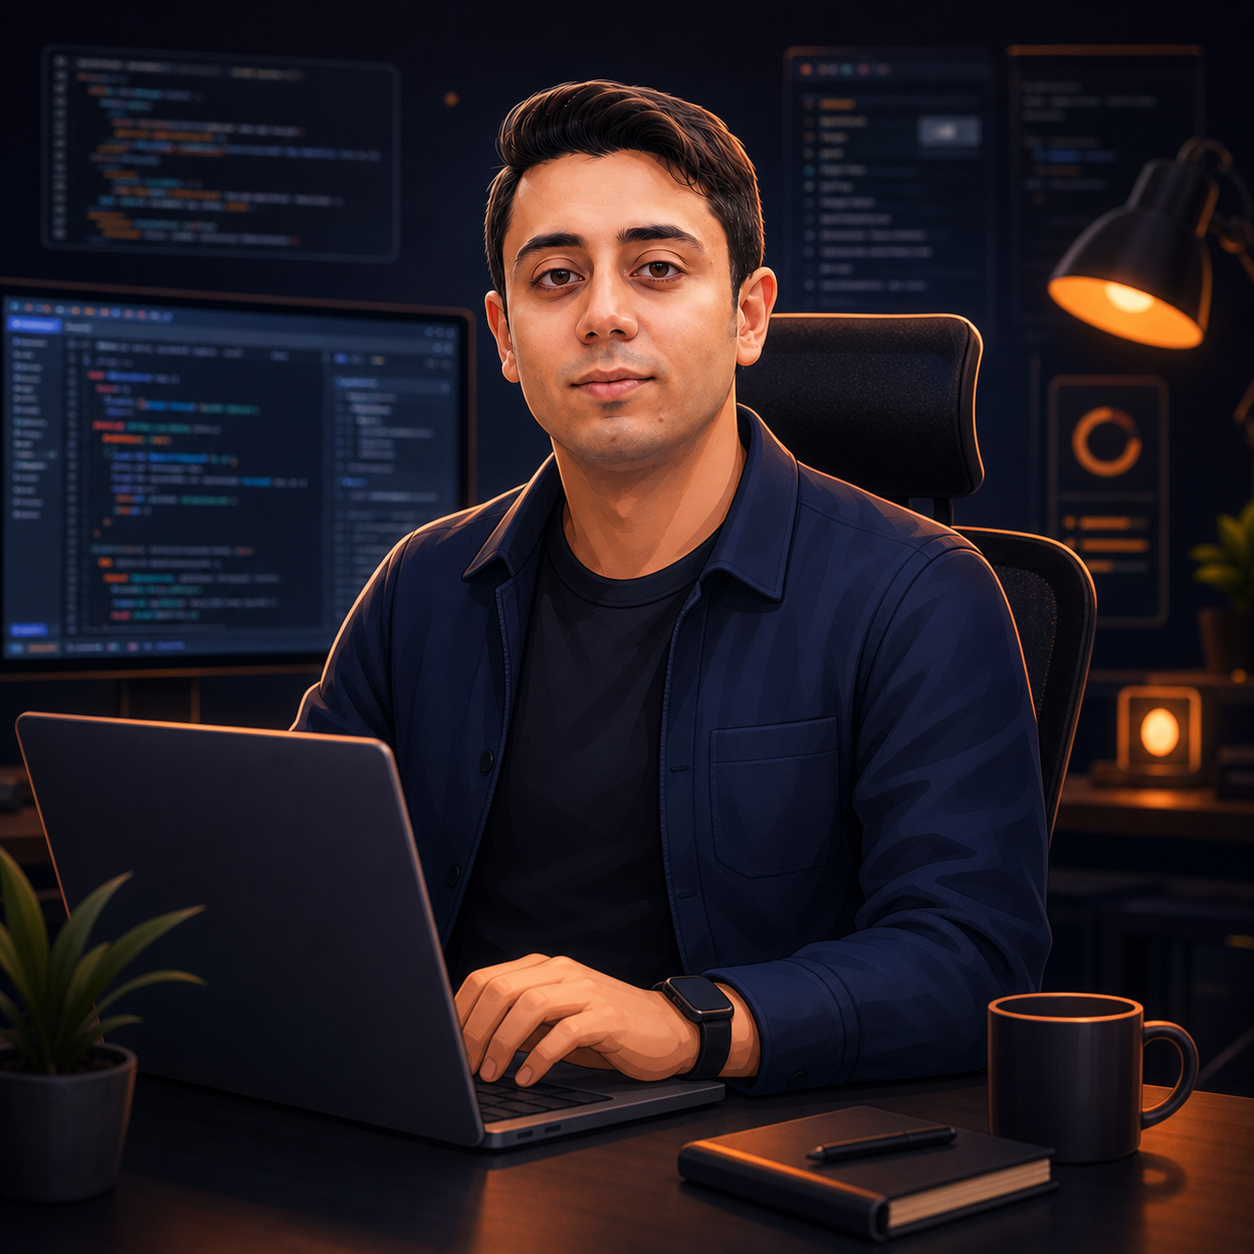
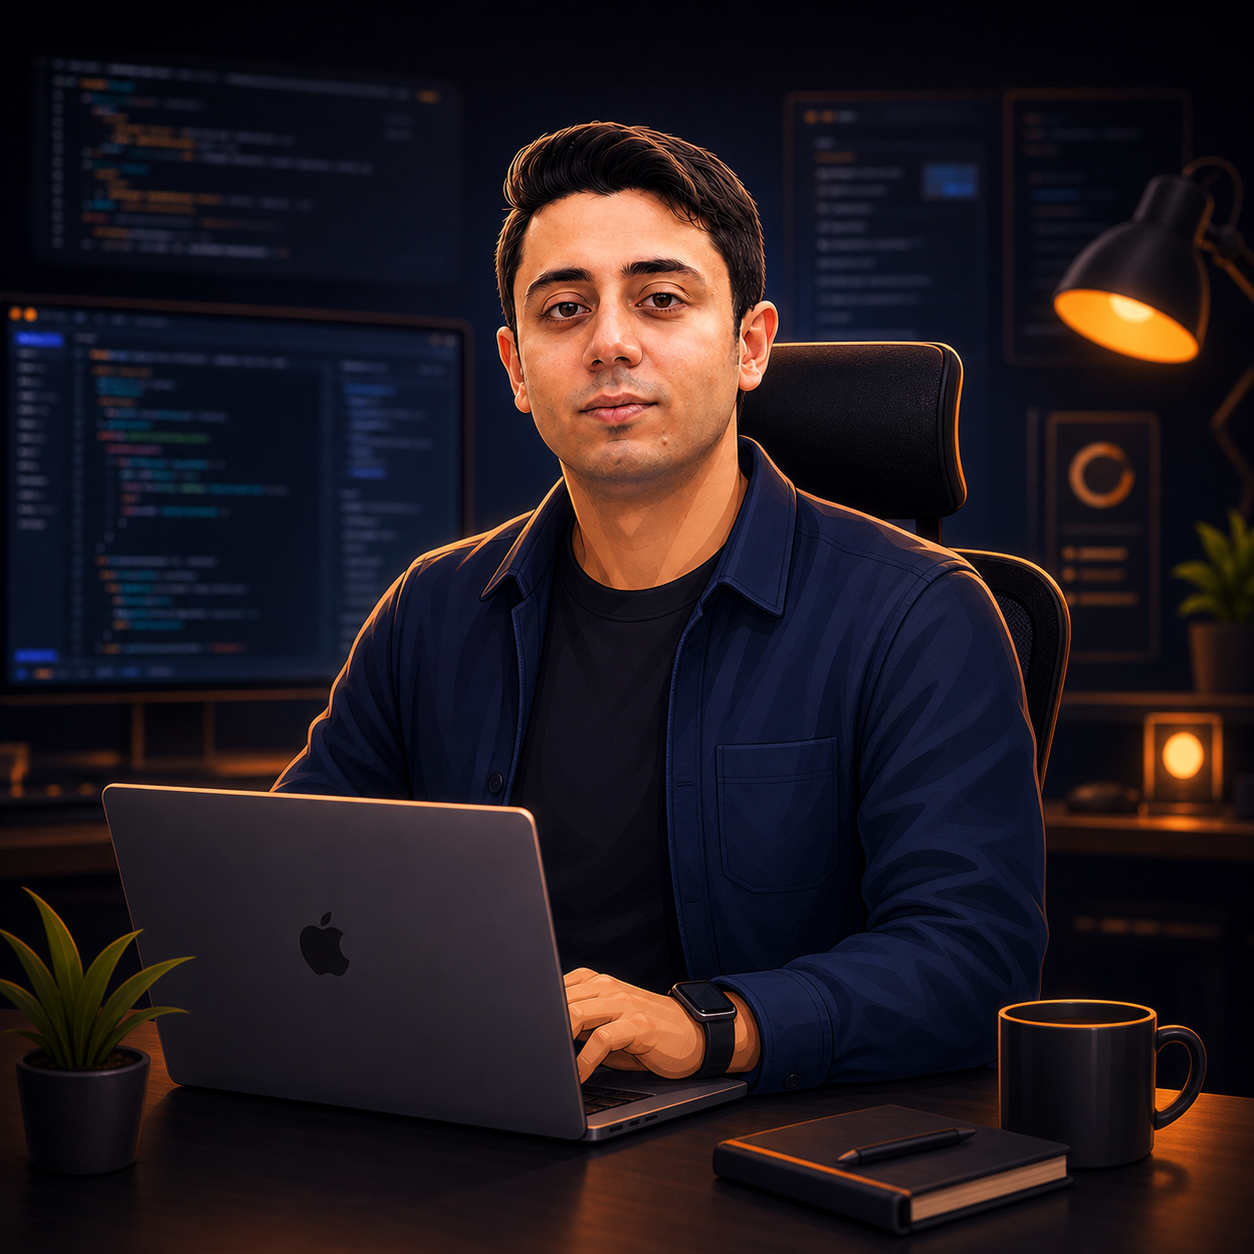
feat: update CodeBootLoader styles and loading timing for improved user experience

diff --git a/src/app/_components/pages/landing/CodeBootLoader.tsx b/src/app/_components/pages/landing/CodeBootLoader.tsx
@@ -21,7 +21,7 @@ const CodeBootLoader = () => {
 
     const finishLoading = () => {
       const elapsed = performance.now() - startedAt;
-      const remaining = Math.max(3000 - elapsed, 260);
+      const remaining = Math.max(1750 - elapsed, 260);
 
       exitTimer = setTimeout(() => {
         setIsVisible(false);
@@ -57,7 +57,7 @@ const CodeBootLoader = () => {
 
   return (
     <div
-      className={`fixed inset-0 z-[99999999] flex items-center justify-center overflow-hidden bg-[#0f0e0d] px-16 transition-all duration-700 ${
+      className={`fixed inset-0 z-[99999999] flex items-center justify-center overflow-hidden bg-[#0f0e0d] px-12 py-16 transition-all duration-700 sm:!px-16 ${
         isVisible ? "opacity-100" : "pointer-events-none opacity-0"
       }`}
       aria-label="Loading portfolio"
@@ -66,8 +66,8 @@ const CodeBootLoader = () => {
       <div className="absolute inset-0 bg-[radial-gradient(circle_at_20%_20%,rgba(239,142,53,0.22)_0%,transparent_32%),radial-gradient(circle_at_78%_24%,rgba(255,255,255,0.08)_0%,transparent_28%),linear-gradient(135deg,rgba(255,255,255,0.035)_25%,transparent_25%,transparent_50%,rgba(255,255,255,0.035)_50%,rgba(255,255,255,0.035)_75%,transparent_75%,transparent)] bg-[length:auto,auto,34px_34px]" />
       <div className="absolute inset-x-0 top-0 h-[1px] bg-primary/70 shadow-[0_0_28px_rgba(239,142,53,0.9)]" />
 
-      <div className="relative grid w-full max-w-[1040px] items-center gap-[24px] rounded-[18px] border border-white/10 bg-[rgba(22,21,20,0.78)] p-16 shadow-[0_30px_120px_rgba(0,0,0,0.45)] backdrop-blur-[22px] sm:!p-24 md:!grid-cols-[minmax(280px,0.85fr)_minmax(0,1.15fr)] md:!gap-[32px]">
-        <div className="relative mx-auto flex w-full max-w-[360px] items-end justify-center overflow-hidden rounded-[16px] border border-primary/20 bg-[linear-gradient(180deg,rgba(239,142,53,0.18)_0%,rgba(255,255,255,0.05)_44%,rgba(0,0,0,0.08)_100%)]">
+      <div className="relative grid max-h-[calc(100svh-32px)] w-full max-w-[1040px] items-center gap-[12px] rounded-[18px] border border-white/10 bg-[rgba(22,21,20,0.78)] p-12 shadow-[0_30px_120px_rgba(0,0,0,0.45)] backdrop-blur-[22px] sm:!gap-[20px] sm:!p-20 md:!grid-cols-[minmax(280px,0.85fr)_minmax(0,1.15fr)] md:!gap-[32px] md:!p-24">
+        <div className="relative mx-auto flex h-[min(39svh,320px)] w-full max-w-[360px] items-end justify-center overflow-hidden rounded-[16px] border border-primary/20 bg-[linear-gradient(180deg,rgba(239,142,53,0.18)_0%,rgba(255,255,255,0.05)_44%,rgba(0,0,0,0.08)_100%)] sm:!h-auto">
           <div className="absolute inset-x-[12%] bottom-0 h-[42%] rounded-t-[50%] bg-primary/15 blur-[28px]" />
           <Image
             src="/images/coding-loader-avatar.png"
@@ -75,9 +75,9 @@ const CodeBootLoader = () => {
             width={520}
             height={520}
             priority
-            className="relative z-10 aspect-square w-full object-cover object-center"
+            className="relative z-10 h-full w-full object-contain object-center sm:!aspect-square sm:!h-auto"
           />
-          <div className="absolute bottom-14 left-14 right-14 z-20 h-[46px] rounded-[10px] border border-white/10 bg-black/45 px-12 py-8 shadow-[0_18px_45px_rgba(0,0,0,0.35)] backdrop-blur-md">
+          <div className="absolute bottom-10 left-10 right-10 z-20 h-[42px] rounded-[10px] border border-white/10 bg-black/45 px-12 py-8 shadow-[0_18px_45px_rgba(0,0,0,0.35)] backdrop-blur-md sm:!bottom-14 sm:!left-14 sm:!right-14 sm:!h-[46px]">
             <div className="mb-6 flex items-center justify-between text-[10px] leading-none text-white/60">
               <span>dev.session</span>
               <span className="text-primary">active</span>
@@ -89,7 +89,7 @@ const CodeBootLoader = () => {
         </div>
 
         <div className="overflow-hidden rounded-[14px] border border-white/10 bg-[#11100f]/95 shadow-[0_20px_70px_rgba(0,0,0,0.4)]">
-          <div className="flex h-[42px] items-center justify-between border-b border-white/10 bg-white/[0.035] px-14">
+          <div className="flex h-[38px] items-center justify-between border-b border-white/10 bg-white/[0.035] px-14 sm:!h-[42px]">
             <div className="flex gap-[6px]">
               <span className="h-[10px] w-[10px] rounded-full bg-[#ff5f56]" />
               <span className="h-[10px] w-[10px] rounded-full bg-[#ffbd2e]" />
@@ -100,11 +100,13 @@ const CodeBootLoader = () => {
             </span>
           </div>
 
-          <div className="space-y-14 p-16 font-mono text-[12px] leading-[20px] text-[#d9d4ce] sm:!p-20 sm:!text-[14px] sm:!leading-[24px]">
+          <div className="space-y-8 p-12 font-mono text-[11px] leading-[18px] text-[#d9d4ce] sm:!space-y-14 sm:!p-20 sm:!text-[14px] sm:!leading-[24px]">
             {bootLines.map((line, index) => (
               <div
                 key={line.text}
-                className="code-loader-line flex gap-[10px]"
+                className={`code-loader-line gap-[10px] ${
+                  index > 1 ? "hidden sm:!flex" : "flex"
+                }`}
                 style={{ animationDelay: `${index * 140}ms` }}
               >
                 <span className="text-primary">{line.prompt}</span>
@@ -112,8 +114,8 @@ const CodeBootLoader = () => {
               </div>
             ))}
 
-            <div className="rounded-[10px] border border-primary/20 bg-primary/[0.06] p-12">
-              <div className="mb-10 flex items-center justify-between text-[11px] uppercase tracking-[0.16em] text-white/50">
+            <div className="rounded-[10px] border border-primary/20 bg-primary/[0.06] p-10 sm:!p-12">
+              <div className="mb-8 flex items-center justify-between text-[10px] uppercase tracking-[0.14em] text-white/50 sm:!mb-10 sm:!text-[11px] sm:!tracking-[0.16em]">
                 <span>build progress</span>
                 <span className="text-primary">loading</span>
               </div>
@@ -122,7 +124,7 @@ const CodeBootLoader = () => {
               </div>
             </div>
 
-            <div className="flex items-center gap-[8px] text-[12px] text-white/55">
+            <div className="flex items-center gap-[8px] text-[11px] text-white/55 sm:!text-[12px]">
               <span className="h-[8px] w-[8px] animate-pulse rounded-full bg-primary shadow-[0_0_14px_rgba(239,142,53,0.9)]" />
               <span>Rendering Amir Tejareh portfolio</span>
               <span className="code-loader-caret text-primary">_</span>